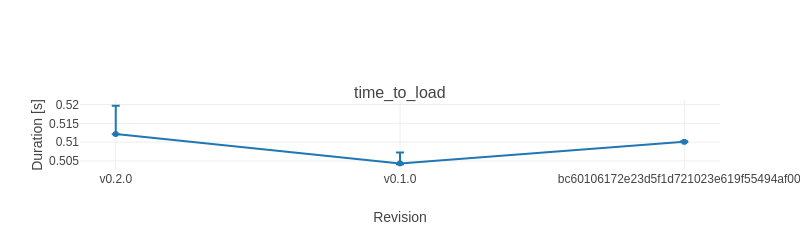
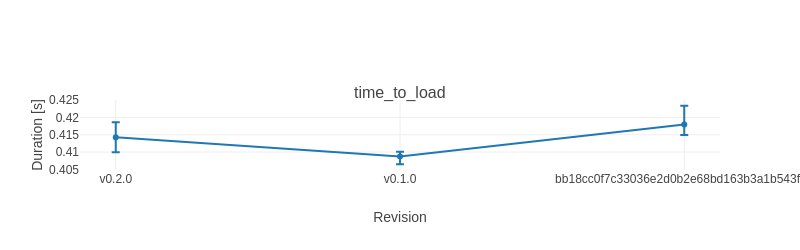
Deploying to benchmarks from @ EpiAware/ReparameterisedDistributions.jl@bb18cc0f7c33036e2d0b2e68bd163b3a1b543f06 🚀

diff --git a/history/table.md b/history/table.md
@@ -1,8 +1,8 @@
-|              | v0.2.0           | v0.1.0           | bc60106172e23d... |
+|              | v0.2.0           | v0.1.0           | bb18cc0f7c3303... |
 |:-------------|:----------------:|:----------------:|:-----------------:|
-| time_to_load | 0.512 ± 0.0076 s | 0.504 ± 0.0031 s | 0.51 ± 0.00022 s  |
+| time_to_load | 0.414 ± 0.0087 s | 0.409 ± 0.0036 s | 0.418 ± 0.0084 s  |
 
-|              | v0.2.0                  | v0.1.0                  | bc60106172e23d...     |
-|:-------------|:-----------------------:|:-----------------------:|:---------------------:|
-| time_to_load | 0.149 k allocs: 11.2 kB | 0.149 k allocs: 11.2 kB | 0.145 k allocs: 11 kB |
+|              | v0.2.0                | v0.1.0                  | bb18cc0f7c3303...     |
+|:-------------|:---------------------:|:-----------------------:|:---------------------:|
+| time_to_load | 0.145 k allocs: 11 kB | 0.149 k allocs: 11.2 kB | 0.145 k allocs: 11 kB |
 

diff --git a/history/README.md b/history/README.md
@@ -1,6 +1,6 @@
 # ReparameterisedDistributions.jl benchmark history
 
-Revisions: v0.2.0,v0.1.0,bc60106172e23d5f1d721023e619f55494af00bf
+Revisions: v0.2.0,v0.1.0,bb18cc0f7c33036e2d0b2e68bd163b3a1b543f06
 
 See `table.md` for the ratio summary and the PNG
 files in this folder for per-benchmark timelines.
